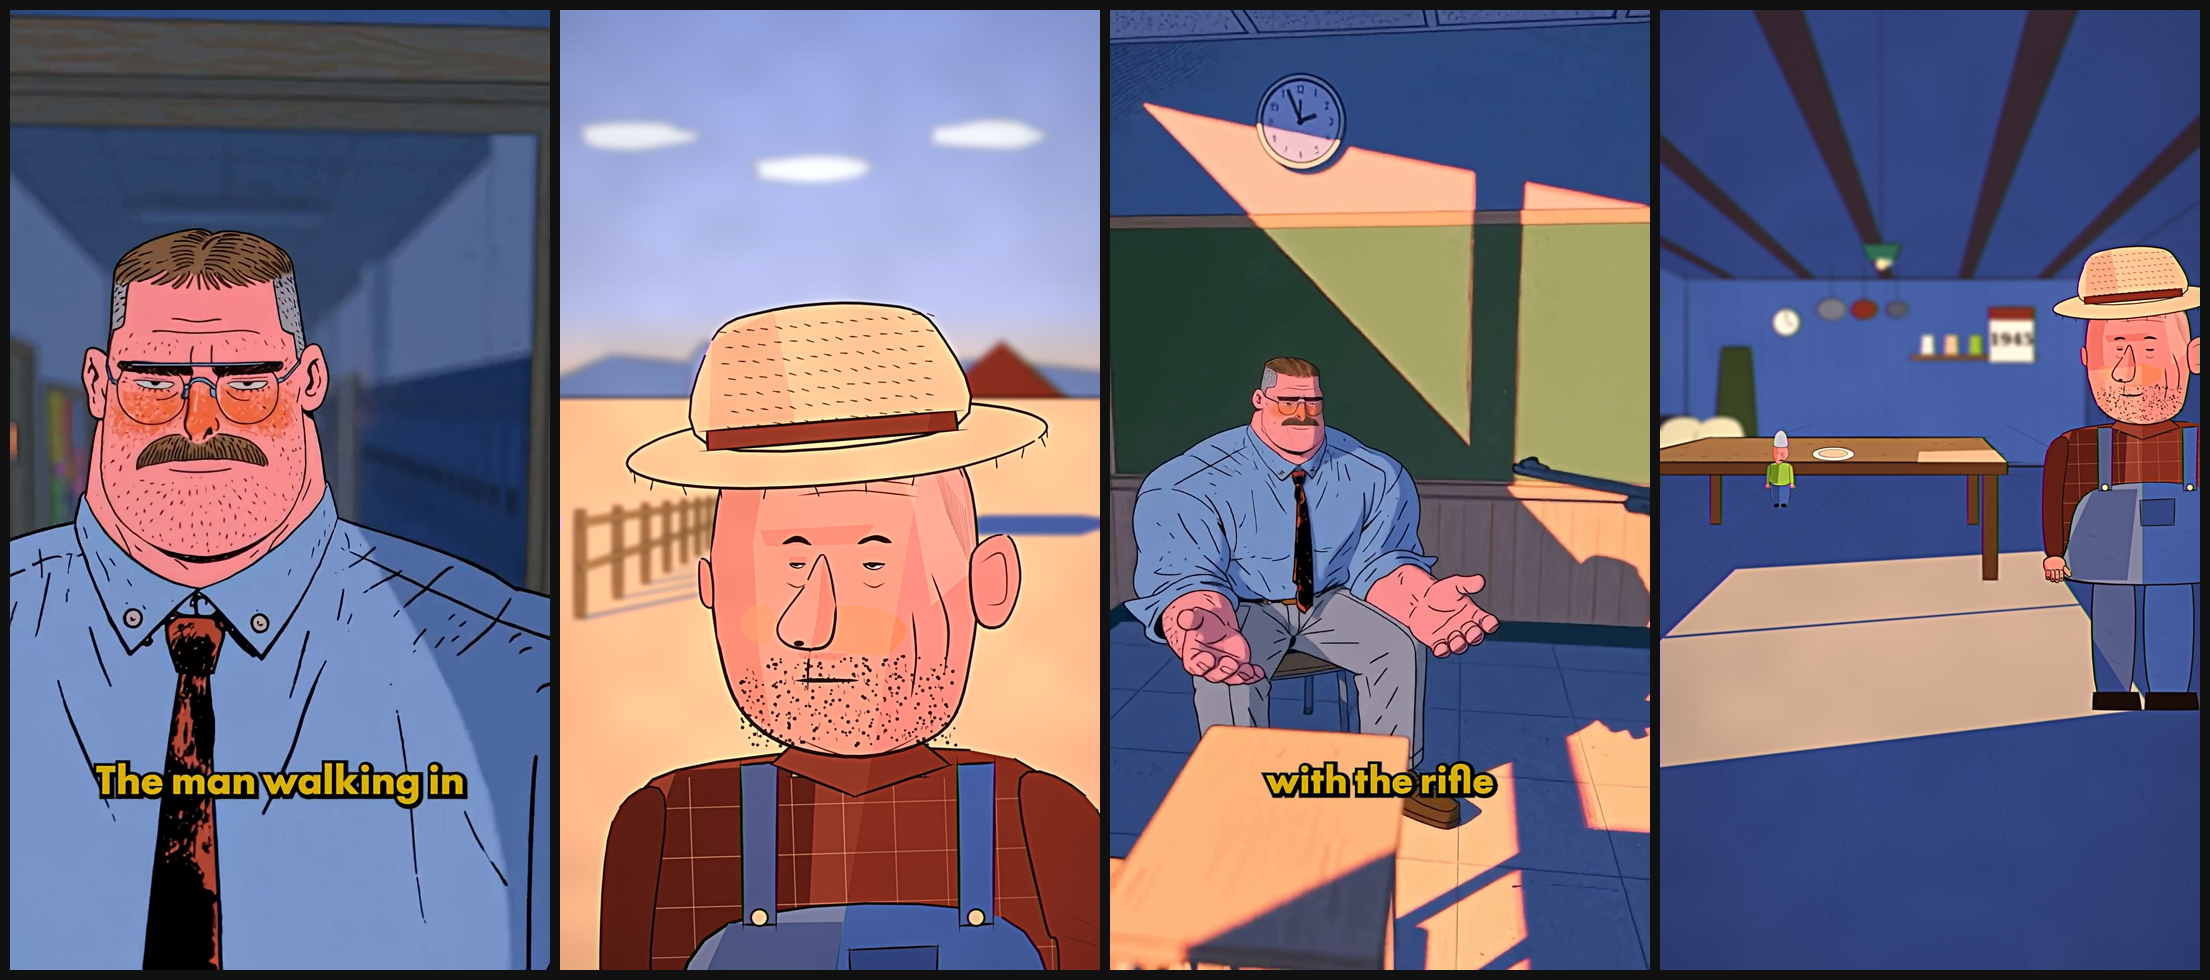
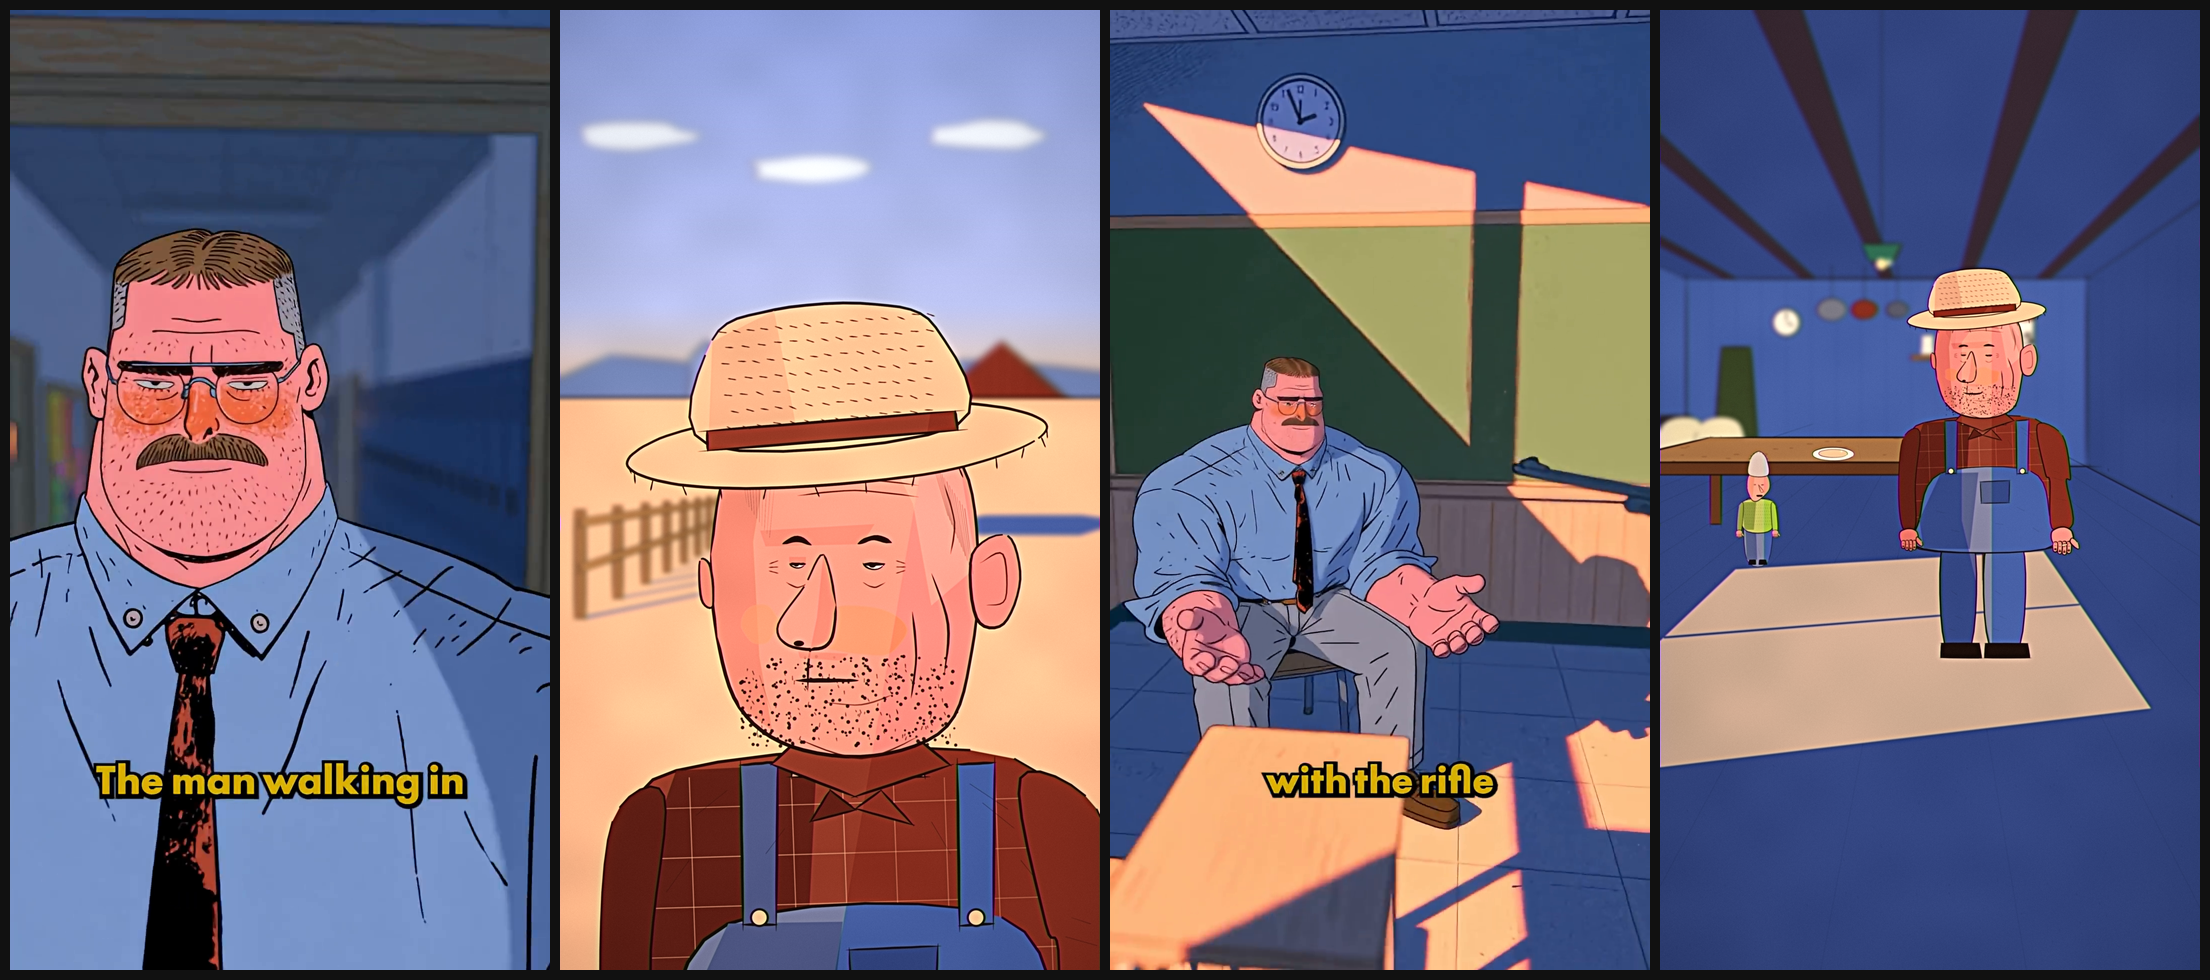
Ink-cel design pass 5: face and shirt detail, kitchen reframed, light across the figures
Claude-Session: https://claude.ai/code/session_015MeZfjvAoWGvNiLsDE9rCz

Changed region(s): [[0.843, 0.2449, 0.9991, 0.7347], [0.7805, 0.4286, 0.8118, 0.5816], [0.3747, 0.7959, 0.4059, 0.8571]]

diff --git a/videos/inkcel/mike/cast3.py b/videos/inkcel/mike/cast3.py
@@ -47,6 +47,14 @@ def lloyd_head(expr='neutral', k=1, name='L3', lit=True):
     o += ink(M([(-10, 40), (-40, 110), (-44, 176 + jaw * 0.6)]), 3.6, name + 'foldF')
     o += ink(M([(120, 50), (126, 120), (118, 186 + jaw * 0.7)]), 3.6, name + 'foldN')
     o += ink(M([(-60, 250 + jaw), (40, 280 + jaw), (130, 246 + jaw)]), 3, name + 'chin2', color=FINE, op=0.85)
+    for j, ex in enumerate((-60, 60)):   # crow's feet
+        for t_ in range(3):
+            o += tick((ex + (34 if j else -30)) * k, -30 + t_ * 10, (0.3 - t_ * 0.3) if (j == 1) == (k > 0) else (2.8 + t_ * 0.3), 16, 1.6, f'{name}cf{j}{t_}', color=FINE, op=0.85)
+    o += ink(M([(170, -150), (186, -90), (180, -40)]), 2.6, name + 'temple', color=FINE, op=0.8)
+    o += ink(M([(90, 180 + jaw * 0.8), (40, 196 + jaw * 0.9), (-20, 192 + jaw * 0.9)]), 2.4, name + 'lipLine', color=FINE, op=0.7)
+    o += ink(M([(-120, 150 + jaw * 0.6), (-100, 210 + jaw * 0.9)]), 2.6, name + 'jowlF', color=FINE, op=0.8)
+    for i in range(10):
+        o += ink(M([(-150 + i * 6, -196 + i * 5), (-140 + i * 4, -120 + i * 6)]), 1.7, f'{name}hairF{i}', op=0.7)
     # eyes toward the facing side: the far eye smaller (foreshortened)
     mode = {'blink': 'blink', 'shock': 'shock', 'anger': 'angry'}.get(expr, 'normal')
     lid = {'smug': 0.68, 'joy': 0.6, 'neutral': 0.52}.get(expr, 0.45)
@@ -113,6 +121,8 @@ def lloyd_body(name='L3b', pose='stand', k=1):
         o += f'<circle cx="{x * k}" cy="-890" r="13" fill="{PEACH}" stroke="{INK}" stroke-width="3"/>'
     o += shape(M([(-90, -1210), (90, -1210), (110, -1110), (-100, -1110)]), SKIN_SH, name + 'neck', w=5, smooth=False)
     o += shape(M([(-130, -1130), (0, -1080), (150, -1130), (100, -1170), (-90, -1170)]), REDB, name + 'collar', w=4, smooth=False)
+    o += shape(M([(-40, -1090), (0, -1060), (-70, -1040)]), '#6a2018', name + 'collarPtF', w=3, smooth=False) + shape(M([(40, -1090), (0, -1060), (90, -1036)]), REDB, name + 'collarPtN', w=3, smooth=False)
+    o += F([M([(180, -1100), (240, -1060)]), M([(200, -1070), (250, -1030)]), M([(-200, -1090), (-250, -1050)]), M([(260, -980), (300, -930)]), M([(-260, -980), (-296, -930)]), M([(120, -1040), (150, -990)]), M([(-110, -1030), (-140, -990)])], name + 'shF', 3.2)
     if pose == 'stand':
         # far arm (shade, behind), near arm big with a thick forearm and a fold at the elbow
         o += shape(M([(-300, -1080), (-380, -1040), (-400, -800), (-380, -620), (-320, -620), (-320, -840)]), '#6a2018', name + 'armF', w=5)

diff --git a/videos/inkcel/mike/compose4.py b/videos/inkcel/mike/compose4.py
@@ -66,7 +66,13 @@ def kitchen_shot(out):
     c = cam
     X1, WZ0, WZ1, WY0, WY1 = 3.2, 3.0, 5.0, 1.0, 2.4
     corners = [(X1, WY0, WZ0), (X1, WY0, WZ1), (X1, WY1, WZ1), (X1, WY1, WZ0)]
-    extra = ''
+    SUN2 = (-1.0, -0.34, -0.12)   # a lower afternoon sun: the beam crosses the room at chest height
+    # the big diagonal light on the left wall, with the mullion cross in shadow
+    wl = c.poly([cast_to_plane(q, SUN2, 0, -3.2) for q in corners])
+    extra = shape(wl, PEACH_HEX, 'wallLight', line=False, smooth=False, cut=0.5, extra=' fill-opacity="0.92"')
+    m1 = [cast_to_plane((X1, WY0, (WZ0 + WZ1) / 2), SUN2, 0, -3.2), cast_to_plane((X1, WY1, (WZ0 + WZ1) / 2), SUN2, 0, -3.2)]
+    m2 = [cast_to_plane((X1, (WY0 + WY1) / 2, WZ0), SUN2, 0, -3.2), cast_to_plane((X1, (WY0 + WY1) / 2, WZ1), SUN2, 0, -3.2)]
+    extra += ink([c.p(*m1[0]), c.p(*m1[1])], 22, 'wm1', taper=False, color=C.BLUE) + ink([c.p(*m2[0]), c.p(*m2[1])], 22, 'wm2', taper=False, color=C.BLUE)
     # packed set: hanging pots, a calendar 1945, a coat on a hook, a lamp with a glint, a rug, flour sacks, a chair
     for i in range(3):
         x, y = c.p(-0.8 + i * 0.5, 2.6, 8.6)
@@ -87,15 +93,15 @@ def kitchen_shot(out):
     back = raster(K['sky'] + K['back'] + extra)
     mid = raster(rugsvg + K['mid'])
     # characters: Lloyd at the table (big, foreground right), the mother-in-law behind on the left; the plate
-    actors = at(c, -0.9, 6.2, C.mil('anger', 1, 'km'), 1.55)
-    lloyd = at(c, 1.55, 2.7, C.lloyd('smug', 'stand', 1, 'kl'))
+    actors = at(c, -0.55, 4.4, C.mil('anger', 1, 'km'), 1.55)
+    lloyd = at(c, 0.95, 3.1, C.lloyd('smug', 'stand', 1, 'kl'))
     px, py = c.p(0.0, 0.8, 4.4)
     plate = put(C.plate(0, 0, 1, 'kp'), px, py, c.scale(4.4) / 900 * 0.9)
     A = raster(actors)
     Lr = raster(lloyd + plate)
     # light wrap: the beam cast onto each character's depth plane (the X of where they stand)
-    beamL = c.poly([cast_to_plane(q, C.SUN_K, 0, 1.55) for q in corners])
-    beamW = c.poly([cast_to_plane(q, C.SUN_K, 0, -0.9) for q in corners])
+    beamL = c.poly([cast_to_plane(q, SUN2, 0, 0.95) for q in corners])
+    beamW = c.poly([cast_to_plane(q, SUN2, 0, -0.55) for q in corners])
     Lr = light_wrap(Lr, poly_mask([beamL]), 0.6)
     A = light_wrap(A, poly_mask([beamW]), 0.6)
     return frame([(back, 9), (mid, 2), (A, 0), (Lr, 0)], out)
